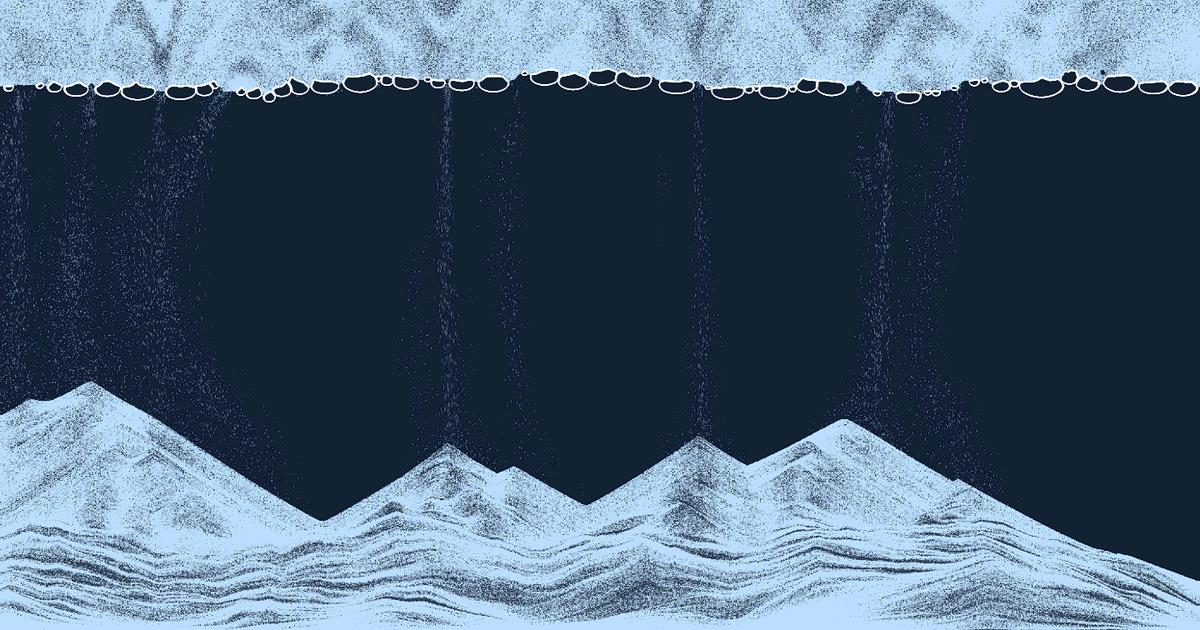
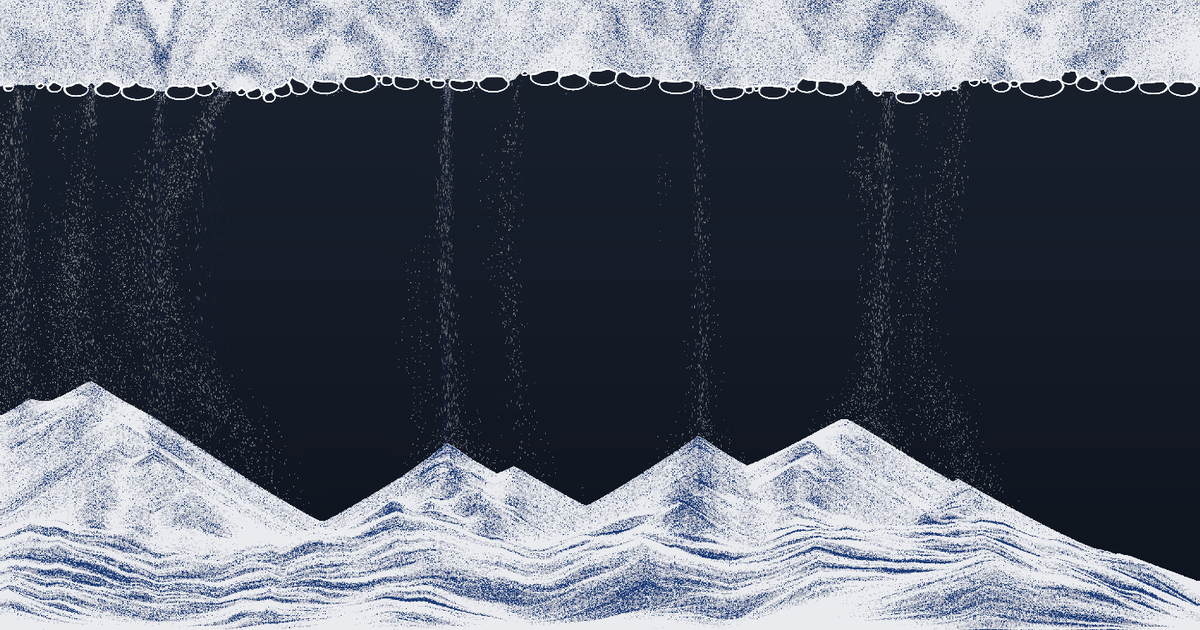
Switch palette to white silica and royal indigo over midnight backdrop

diff --git a/docs/design.md b/docs/design.md
@@ -287,4 +287,4 @@ V-cycle の 66：`anchor_predict, anchor_apply`、階層 3 つを下りながら
   揺れが、模様の飛びになる）。1 コマに粒の幅より滑るところは、平均の色にぼかす。落ちる粒の模様は、0.5 秒ごとに
   敷き直す二つを、入れ替えながら運ぶ。
 - **離れた粉**は、粒としては描かず、水を白くする。
-- **色と背景**：砂の色は、実物が青い光の下で見せる白と黒。背景は、無地の暗い板である。
+- **色と背景**：細砂は白（珪砂）、粗砂は濃い紺。背景は、上下にわずかな濃淡をつけた暗い紺の板である。
